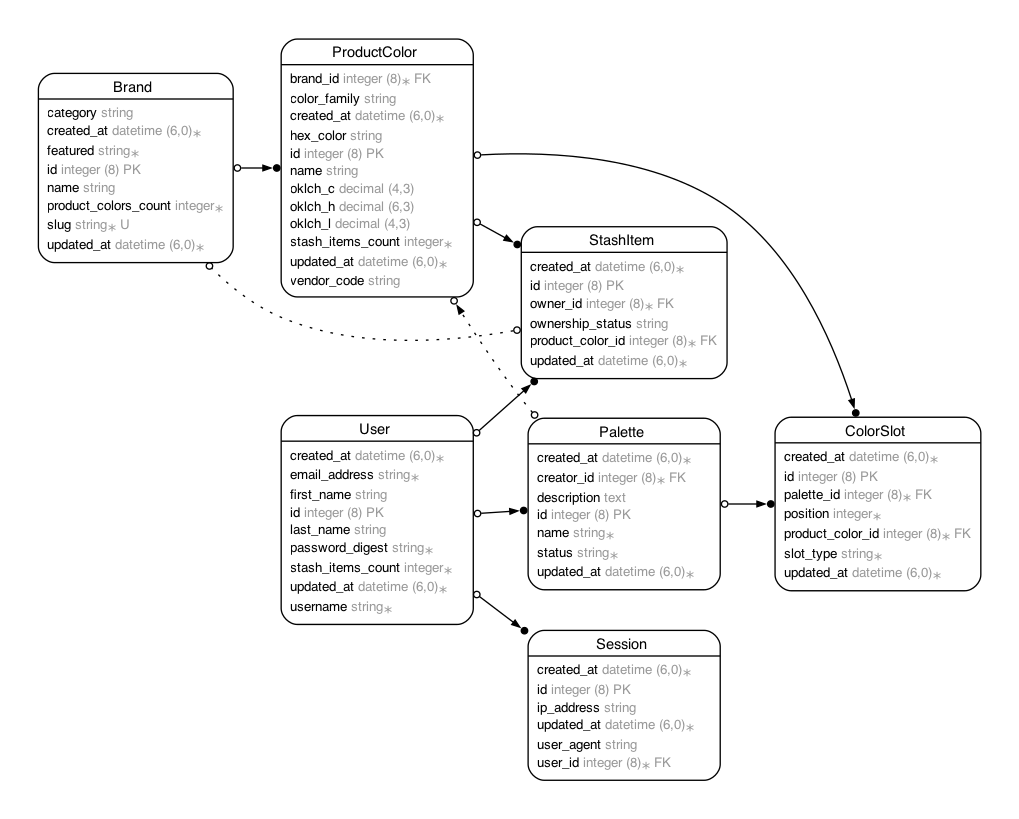
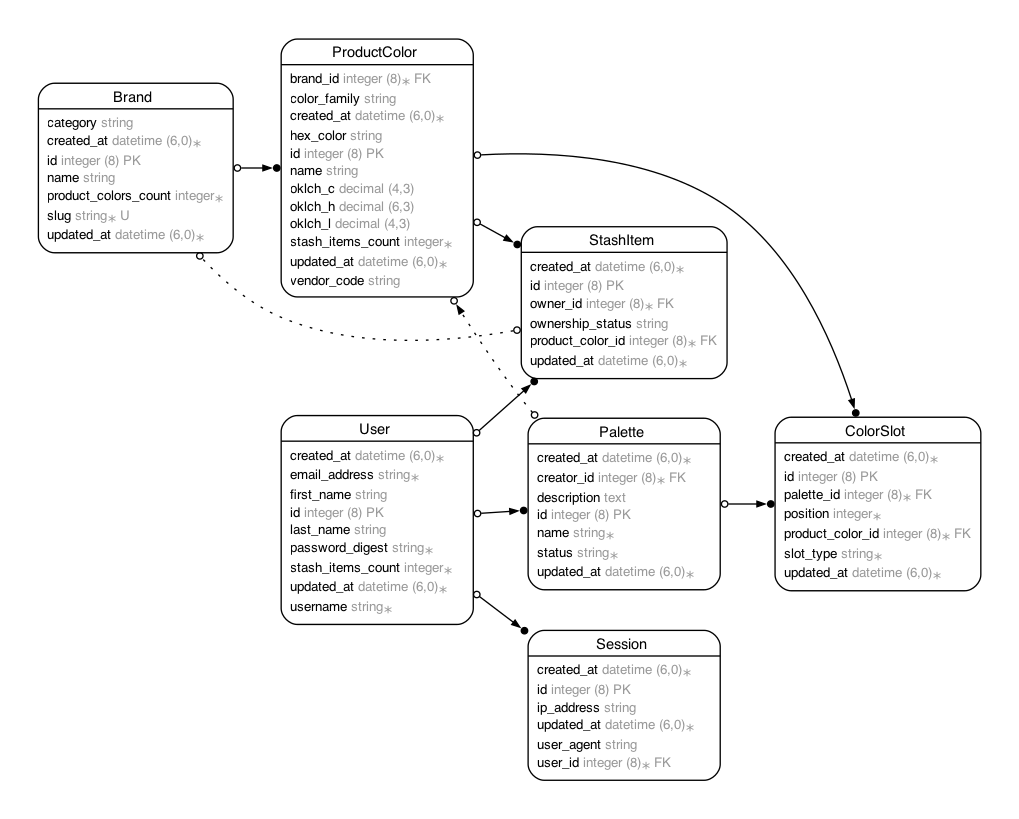
remove featured column from brand

Changed region(s): [[0.0304, 0.0916, 0.2434, 0.3358]]

diff --git a/db/schema.rb b/db/schema.rb
@@ -10,7 +10,7 @@
 #
 # It's strongly recommended that you check this file into your version control system.
 
-ActiveRecord::Schema[8.0].define(version: 2025_12_06_190135) do
+ActiveRecord::Schema[8.0].define(version: 2025_12_29_170247) do
   # These are extensions that must be enabled in order to support this database
   enable_extension "pg_catalog.plpgsql"
 
@@ -21,9 +21,7 @@ ActiveRecord::Schema[8.0].define(version: 2025_12_06_190135) do
     t.integer "product_colors_count", default: 0, null: false
     t.string "slug"
     t.string "category", default: "general"
-    t.string "featured", default: "general", null: false
     t.index ["category"], name: "index_brands_on_category"
-    t.index ["featured"], name: "index_brands_on_featured"
     t.index ["slug"], name: "index_brands_on_slug", unique: true
   end
 

diff --git a/app/models/brand.rb b/app/models/brand.rb
@@ -4,7 +4,6 @@
 #
 #  id                   :bigint           not null, primary key
 #  category             :string           default(NULL)
-#  featured             :string           default("general"), not null
 #  name                 :string
 #  product_colors_count :integer          default(0), not null
 #  slug                 :string
@@ -14,14 +13,12 @@
 # Indexes
 #
 #  index_brands_on_category  (category)
-#  index_brands_on_featured  (featured)
 #  index_brands_on_slug      (slug) UNIQUE
 #
 class Brand < ApplicationRecord
   has_many :product_colors, dependent: :destroy
 
   enum :category, { thread: "thread", fabric: "fabric" }
-  enum :featured, { main: "main", secondary: "secondary", general: "general" }
 
   validates :slug, presence: true, uniqueness: true
 

diff --git a/db/migrate/20251229170247_remove_featured_from_brands.rb b/db/migrate/20251229170247_remove_featured_from_brands.rb
@@ -1,0 +1,5 @@
+class RemoveFeaturedFromBrands < ActiveRecord::Migration[8.0]
+  def change
+    remove_column :brands, :featured, :string, default: "general", null: false
+  end
+end
